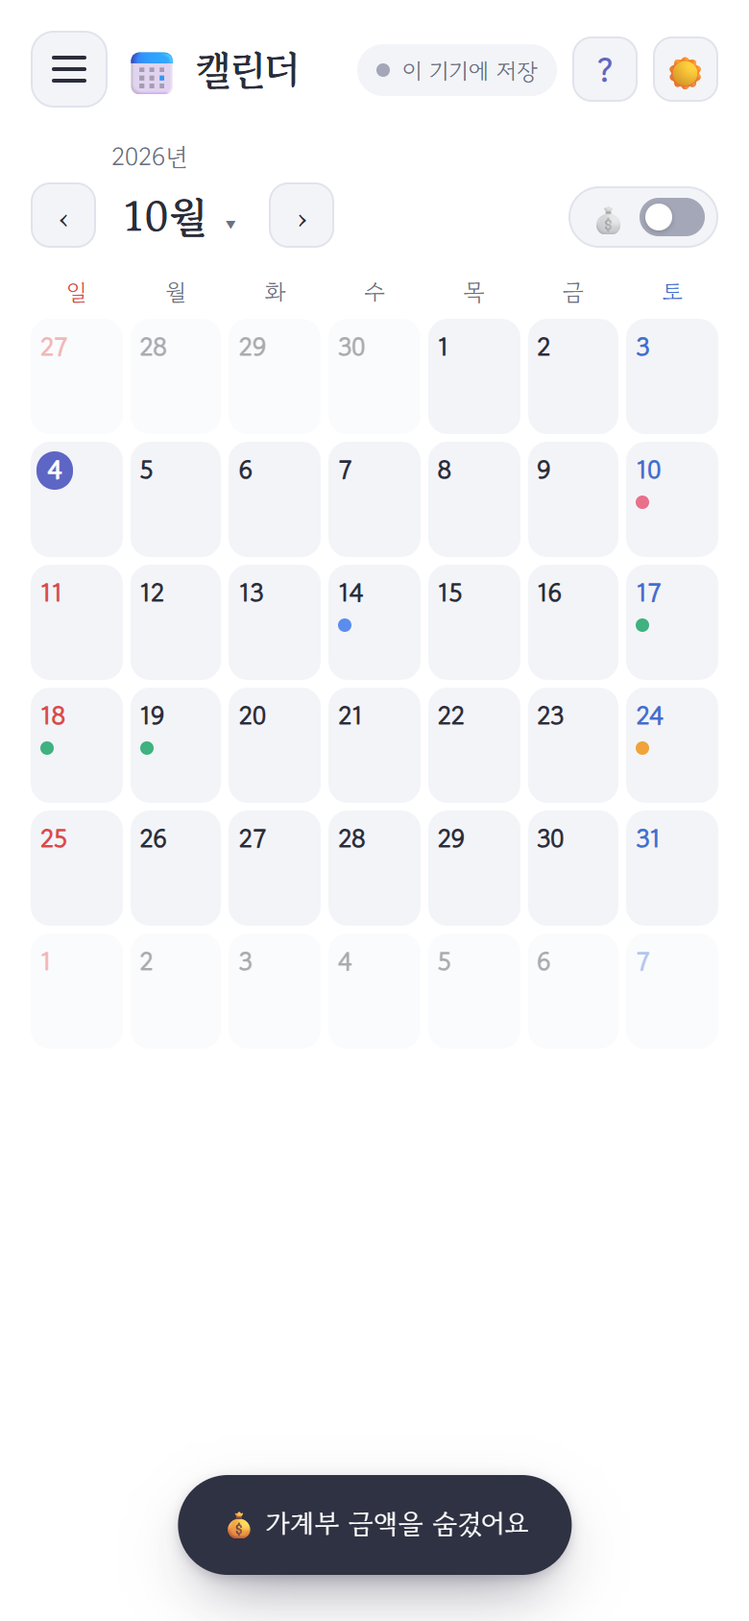
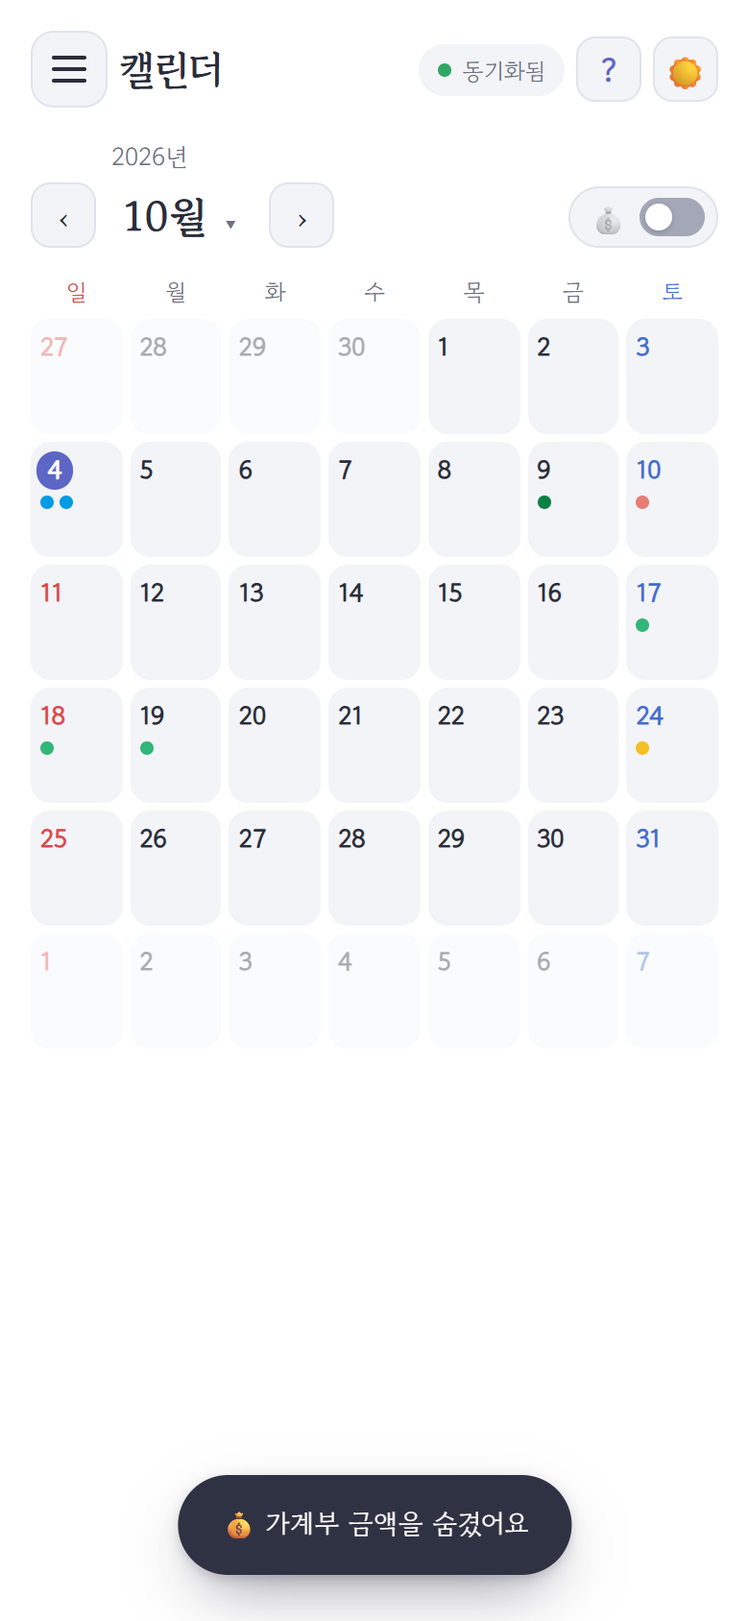
Phase 4 완료: 캘린더 자동 연결·자동 옮기기 + 마무리(4-3)
- 구글 계정이 연결돼 있으면 캘린더도 자동으로 켜짐 (직접 끈 경우만 꺼 둠)
- 담다에만 있던 일정은 저절로 구글 캘린더로 옮김 (고정 아이디로 두 기기 동시에 옮겨도 중복 없음)
- 일정 고치기 창: 계정 이름 중복 표시 수정, "구글 캘린더에서 열기" 버튼 모양
- 가이드 "같이 쓰기" 카드: 일정은 폰 캘린더에도, 할 일·가계부는 담다에만
- README: 캘린더 동기화 기능·구조도·사진(데모 계정)·로드맵·숫자 갱신, PLAN Phase 4 ✅

diff --git a/js/sync/gcal.js b/js/sync/gcal.js
@@ -5,9 +5,12 @@
 // - 쓰기: 담다에서 만들고 고치고 지운 일정은 "보낼 목록(outbox)"에 넣고 순서대로 구글에 보낸다.
 //   새 일정은 아이디를 미리 정해 두어 다시 보내도 하나만 생기고, 고칠 때는 버전(etag)을 확인해
 //   다른 곳에서 먼저 고친 일정은 덮어쓰지 않는다. 지우기는 8초 동안 되돌릴 수 있다.
+// - 담다에만 있던 일정(캘린더 연결 전에 만든 것)은 쓸 수 있게 되면 저절로 구글로 옮긴다.
+//   담다 일정 아이디로 정한 고정 구글 아이디를 써서, 두 기기가 동시에 옮겨도 하나만 생긴다.
 // - 반복 일정, 공휴일, 남이 공유한 캘린더처럼 수정 권한이 없는 일정은 보기만 한다.
 // - 계정: 기본 계정(드라이브 동기화 계정) + 캘린더만 보는 추가 구글 계정 여러 개.
 import * as google from './google.js';
+import { store } from '../store.js';
 import { getMeta, setMeta } from '../db.js';
 import { loadPref, savePref, dateToKey, keyToDate, addDays, pad } from '../utils.js';
 
@@ -38,7 +41,8 @@ let sending = null;
 const pendingDeletes = new Map();  // 일정 id → { ev, timer }
 const listeners = new Set();
 
-export const isEnabled = () => !!loadPref(ON_KEY, false);
+// 켜짐 여부: 사용자가 [캘린더 연결 끊기]로 직접 끈 경우(false)만 꺼 두고, 그 외에는 구글 계정이 연결돼 있으면 켠다
+export const isEnabled = () => { const v = loadPref(ON_KEY, null); return v === null ? !!mainEmail() : !!v; };
 export const getStatus = () => ({ ...status, accounts: { ...status.accounts }, outbox: outbox.length });
 export const subscribe = fn => { listeners.add(fn); return () => listeners.delete(fn); };
 const emit = () => listeners.forEach(fn => { try { fn(); } catch (e) { console.error(e); } });
@@ -321,6 +325,7 @@ export function refresh({ force = true } = {}) {
     else if (main === 'need-scope') setStatus('need-scope', '캘린더 권한이 없어요');
     else setStatus('need-login', '구글 로그인이 끝나면 일정을 불러와요');
     armRelogin();
+    if (anyOk) await autoMigrate();
     sendOutbox();
   })().finally(() => { running = null; });
   return running;
@@ -390,10 +395,9 @@ function optimistic(input, { acct, calId, gid, prev }) {
   };
 }
 
-export async function createEvent(input) {
+export async function createEvent(input, { gid = newGid() } = {}) {
   const t = target();
   if (!t) throw new Error('일정을 저장할 구글 캘린더가 없어요.');
-  const gid = newGid();
   const body = { ...toGoogleBody(input), id: gid };
   putInCache(optimistic(input, { acct: t.acct, calId: t.id, gid }));
   outbox.push({ op: 'insert', acct: t.acct, calId: t.id, gid, body });
@@ -515,10 +519,23 @@ export function nearestColorId(hex) {
   return best;
 }
 
-export async function migrateLocal(events) {
-  for (const e of events) {
-    await createEvent({ title: e.title, start: e.start, end: e.end, time: e.time || '', colorId: nearestColorId(e.color), reminder: 'default' });
-  }
+/** 담다 일정 아이디 → 항상 같은 구글 일정 아이디 (구글 규칙: 0~9, a~v) */
+const migrateId = localId => 'damdal' + [...String(localId)].map(ch => ch.charCodeAt(0).toString(32).padStart(2, '0')).join('');
+
+let migrating = false;
+/** 담다에만 있는 일정을 구글 캘린더로 저절로 옮긴다 (쓸 수 있을 때만) */
+async function autoMigrate() {
+  if (migrating || !canWrite()) return;
+  const local = store.list('events');
+  if (!local.length) return;
+  migrating = true;
+  try {
+    for (const e of local) {
+      await createEvent({ title: e.title, start: e.start, end: e.end || e.start, time: e.time || '', colorId: nearestColorId(e.color), reminder: 'default' }, { gid: migrateId(e.id) });
+    }
+    store.batch(() => local.forEach(e => store.remove('events', e.id)));
+    notice(`담다에만 있던 일정 ${local.length}개를 구글 캘린더로 옮겼어요`);
+  } finally { migrating = false; }
 }
 
 // ---- 연결 · 계정 ----
@@ -529,10 +546,9 @@ export function prepareConnect() {
 
 /** 연결이 끝난 뒤: 캘린더 권한을 받았으면 켠다. 반환값: 켰는지 */
 export function afterConnect() {
-  if (!google.hasScope(google.CAL_READ)) return false;
   savePref(ON_KEY, true);
   refresh();
-  return true;
+  return google.hasScope(google.CAL_READ);
 }
 
 /** 기본 계정에 캘린더 권한(보기+수정)을 받는다. 버튼을 누른 직후에 불러야 한다 */
@@ -614,6 +630,8 @@ function armRelogin() {
 }
 
 // ---- 시작 ----
+// 이미 구글 계정이 연결된 기기: 다음 로그인 때 캘린더 권한도 함께 요청하도록 (직접 끈 경우 제외)
+if (isEnabled()) prepareConnect();
 (async () => {
   try {
     const saved = await getMeta(CACHE_KEY);

diff --git a/js/app.js b/js/app.js
@@ -198,8 +198,8 @@ function gcalCardHtml() {
   if (!gcal.isEnabled()) {
     return `
       <div class="sync-card">
-        <button type="button" class="google-btn" data-act="gcal-connect"><span class="g-mark cal" aria-hidden="true">📅</span> 구글 캘린더 연결</button>
-        <p class="muted small gcal-note">폰 캘린더와 담다의 <b>일정</b>이 서로 추가·수정·삭제돼요. 할 일과 가계부는 담다에만 있어요.</p>
+        <button type="button" class="google-btn" data-act="gcal-connect"><span class="g-mark cal" aria-hidden="true">📅</span> 구글 캘린더 다시 켜기</button>
+        <p class="muted small gcal-note">캘린더 연결을 꺼 두었어요. 켜면 폰 캘린더와 담다의 <b>일정</b>이 서로 추가·수정·삭제돼요. 할 일과 가계부는 담다에만 있어요.</p>
       </div>`;
   }
   const st = gcal.getStatus();
@@ -217,7 +217,7 @@ function gcalCardHtml() {
     <div class="sync-card">
       <div class="sync-status">${line}</div>
       ${mainState === 'need-scope' || mainState === 'read-only' ? `
-        <button type="button" class="google-btn" data-act="gcal-connect"><span class="g-mark cal" aria-hidden="true">📅</span> ${mainState === 'read-only' ? '일정 수정도 허락하기' : '다시 연결 (캘린더 권한 체크)'}</button>` : ''}
+        <button type="button" class="google-btn" data-act="gcal-connect"><span class="g-mark cal" aria-hidden="true">📅</span> ${mainState === 'read-only' ? '일정 수정도 허락하기' : '캘린더 권한 허락하기'}</button>` : ''}
       ${gcal.accounts().map(a => {
         const state = st.accounts?.[a.key];
         const list = cals.filter(c => c.acct === a.key);
@@ -240,6 +240,7 @@ function gcalCardHtml() {
           </div>`;
       }).join('')}
       <button type="button" class="pill-btn wide" data-act="gcal-add-account">＋ 다른 구글 계정 캘린더 추가</button>
+
       ${writable.length ? `
         <label class="gcal-target">새 일정 저장
           <select data-gcal-target>
@@ -252,25 +253,6 @@ function gcalCardHtml() {
       </div>
       <p class="muted small sync-foot">구글 계정에 저장된 일정만 맞춰요 (삼성 캘린더의 "내 휴대전화"·"삼성 계정" 일정은 제외). 반복 일정·공휴일·남이 공유한 캘린더는 보기만 해요. 추가 계정은 구글 클라우드의 테스트 사용자로 등록되어 있어야 해요.</p>
     </div>`;
-}
-
-// 담다에만 있던 일정을 구글 캘린더로 옮길지 한 번 묻는다
-async function askMigrateEvents() {
-  if (!gcal.canWrite() || loadPref('ple-gcal-migrate-asked', false)) return;
-  const local = store.list('events');
-  if (!local.length) return;
-  const t = gcal.target();
-  const v = await choiceDialog({
-    title: '일정을 구글 캘린더로 옮길까요?',
-    message: `담다에만 있던 일정 ${local.length}개를 구글 캘린더(${t.name})로 옮기면 폰 캘린더에서도 보여요. 옮긴 뒤 담다 쪽 사본은 지워져요.`,
-    cancelLabel: '그대로 두기',
-    choices: [{ label: '옮기기', value: 'yes' }],
-  });
-  savePref('ple-gcal-migrate-asked', true);
-  if (v !== 'yes') return;
-  await gcal.migrateLocal(local);
-  store.batch(() => local.forEach(e => store.remove('events', e.id)));
-  toast(`일정 ${local.length}개를 구글 캘린더로 옮겼어요`);
 }
 
 function renderMenu() {
@@ -358,14 +340,12 @@ menu.addEventListener('click', async e => {
       const email = await sync.connectGoogle();
       const cal = gcal.afterConnect();
       toast(`${email || '구글 계정'}과 연결했어요${cal ? ' · 캘린더도 함께' : ''}`);
-      if (cal) setTimeout(askMigrateEvents, 1500);
     }
     if (act === 'google-reconnect') { await sync.reconnectGoogle(); toast('다시 로그인했어요'); }
     if (act === 'sync-now') await sync.syncNow();
     if (act === 'gcal-connect') {
       const r = await gcal.connectCalendar(sync.account()?.email || '');
       toast(r.canWrite ? `구글 캘린더 ${r.shown}개를 연결했어요 · 서로 수정돼요` : `구글 캘린더 ${r.shown}개를 연결했어요 · 보기만`);
-      if (r.canWrite) setTimeout(askMigrateEvents, 800);
     }
     if (act === 'gcal-add-account') {
       const email = await gcal.addAccount();

diff --git a/js/parts/guide.js b/js/parts/guide.js
@@ -206,7 +206,7 @@ const TOPICS = [
     cards: [
       { scene: () => SCENES.menu(ring(10, 136, 156, 28)), say: () => '<b>☰</b> 를 열고 <b>구글 계정으로 연결</b>을 눌러요.' },
       { scene: () => SCENES.account(), say: () => '내 계정을 고르고 <b>계속</b>을 눌러요. 처음 한 번만 하면 돼요.' },
-      { scene: () => SCENES.devices(), say: () => '이제 휴대폰과 컴퓨터에 <b>똑같이</b> 보여요! 위에 "동기화됨"이 보이면 잘 되고 있는 거예요.' },
+      { scene: () => SCENES.devices(), say: () => '이제 휴대폰과 컴퓨터에 <b>똑같이</b> 보여요! <b>일정</b>은 폰 캘린더(구글 캘린더)에도 함께 보이고, <b>할 일과 가계부는 담다에만</b> 있어요.' },
     ],
   },
   {

diff --git a/sw.js b/sw.js
@@ -1,6 +1,6 @@
 // 서비스 워커: 앱 파일을 저장해 두고 인터넷이 없어도 열리게 한다.
 // 같은 출처 파일은 '네트워크 먼저'(항상 최신, 실패 시 저장본), 폰트는 '저장본 먼저'.
-const CACHE = 'damda-shell-v22';
+const CACHE = 'damda-shell-v25';
 const SHELL = [
   './', './index.html', './manifest.webmanifest', './css/style.css',
   './js/app.js', './js/config.js', './js/settings.js', './js/sync/google.js', './js/sync/drive.js', './js/sync/engine.js', './js/sync/gcal.js', './js/store.js', './js/db.js', './js/utils.js', './js/categories.js', './js/ledgerMath.js', './js/sample.js', './js/recurring.js', './js/taskRepeat.js',

diff --git a/js/parts/eventEditor.js b/js/parts/eventEditor.js
@@ -23,7 +23,7 @@ export function openEventEditor(ev) {
       <form class="event-form">
         ${eventFormHtml({
           ev, dayKey: ev.start, google, calColor: cal?.color,
-          note: google ? `구글 캘린더 · ${escapeHtml(ev.calName)}${cal?.accountEmail ? ` (${escapeHtml(cal.accountEmail)})` : ''}에 저장돼요` : '담다에만 저장된 일정이에요',
+          note: google ? `구글 캘린더 · ${escapeHtml(ev.calName)}${cal?.accountEmail && cal.accountEmail !== ev.calName ? ` (${escapeHtml(cal.accountEmail)})` : ''}에 저장돼요` : '담다에만 저장된 일정이에요',
           submitLabel: '저장',
         })}
       </form>

diff --git a/css/style.css b/css/style.css
@@ -1212,3 +1212,4 @@ a.g-open:hover { background: var(--surface-hover); }
 .event-form .form-line select { flex: 1; min-height: 38px; border: 1px solid var(--line); border-radius: 10px; background: var(--card); color: var(--text); padding: 0 8px; font: inherit; }
 .event-note { margin: 0; line-height: 1.5; }
 .color-row { flex-wrap: wrap; }
+a.pill-btn { text-decoration: none; color: var(--text); }

diff --git a/README.md b/README.md
@@ -3,7 +3,7 @@
 # 💰📅✅ 담다 · Damda
 
 **하루를 담는 기록장**
-캘린더 · 할 일 · 가계부를 한곳에. 서버 없이, 내 기기와 내 구글 계정에만.
+캘린더 · 할 일 · 가계부를 한곳에. 일정은 폰 캘린더와 자동으로 주고받고,<br/>서버 없이 내 기기와 내 구글 계정에만.
 
 ![HTML](https://img.shields.io/badge/HTML%2FCSS%2FJS-순수_ES_Modules-6b74c9)
 ![PWA](https://img.shields.io/badge/PWA-설치·오프라인-3fb27f)
@@ -50,12 +50,24 @@
 
 ### 📅 캘린더 + 하루 패널
 - 한 달을 훑어보고, 날짜를 누르면 **하루 패널**이 스르륵 열립니다 (PC는 옆, 폰은 아래에서).
-- 패널에서 할 일 체크, 그날 지출 요약, 일정 추가를 한 번에.
+- 패널에서 할 일 체크, 그날 지출 요약, 일정 추가·고치기를 한 번에.
 - **💰 금액 보기 스위치**: 옆에 사람이 있을 때 한 번 누르면 달력과 패널의 금액이 모두 숨겨집니다.
 
 | 금액 보기 켜짐 | 금액 보기 꺼짐 |
 |:---:|:---:|
 | <img src="docs/images/07-money-on.png" width="260"> | <img src="docs/images/08-money-off.png" width="260"> |
+
+### 🔄 구글 캘린더 자동 양방향 동기화
+- **구글 계정을 연결하면 캘린더도 함께.** 갤럭시(삼성)·구글·노션 캘린더의 일정이 담다 달력에 보이고, 담다에서 **추가·수정·삭제**한 일정이 폰 캘린더에도 반영됩니다.
+- **일정만 주고받습니다.** 할 일과 가계부는 담다에만 있어서 폰 캘린더가 지저분해지지 않고, 돈 정보가 공유 캘린더로 새지 않습니다.
+- 일정에 **알림**(10분 전 ~ 하루 전)을 붙이면 구글 캘린더가 PC와 폰에 알려 줍니다.
+- **여러 구글 계정**(개인 · 회사 · 학교)의 캘린더를 함께 보고, 새 일정을 저장할 캘린더를 고를 수 있습니다.
+- 연결 전에 담다에만 적어 둔 일정은 **저절로** 구글 캘린더로 옮겨집니다.
+- 안전장치: 인터넷이 끊겨도 먼저 화면에 보이고 나중에 보냄 · 다시 보내도 **하나만** 생김 · 폰에서 먼저 고친 일정은 **덮어쓰지 않음** · 지우기는 8초 되돌리기 · 반복 일정·공휴일·공유 캘린더는 보기만.
+
+| 메뉴: 계정별 캘린더 | 일정 고치기 |
+|:---:|:---:|
+| <img src="docs/images/06-menu.png" width="260"> | <img src="docs/images/10-event-edit.png" width="260"> |
 
 ### ✅ 할 일
 - 카테고리별 진행률, 필터, 밀린 할 일 한 번에 가져오기.
@@ -76,13 +88,13 @@
 - 지워도 8초 안에 ↺ 되돌리기.
 
 ### ☁ 동기화 · ⚙ 설정 · ❓ 가이드
-- **구글 계정으로 연결** → 폰과 PC에 똑같이. 방식은 4가지(이 기기에만 / 자동 / 절약 / 직접).
+- **구글 계정으로 연결** → 폰과 PC에 똑같이 (할 일·가계부는 드라이브 숨김 폴더, 일정은 구글 캘린더). 방식은 4가지(이 기기에만 / 자동 / 절약 / 직접).
 - 설정: 진동(폰에서만)·알림 켜고 끄기. PC에는 소리·진동이 없습니다.
 - **그림 사용 가이드**: 화면 그림 위에서 반짝이는 곳과 👆 손가락, 한 줄 설명. 초등학생도 따라 할 수 있게.
 
-| 사용 가이드 | 메뉴 (동기화·설정) | 어두운 화면 |
-|:---:|:---:|:---:|
-| <img src="docs/images/05-guide.png" width="250"> | <img src="docs/images/06-menu.png" width="250"> | <img src="docs/images/09-dark.png" width="330"> |
+| 사용 가이드 | 어두운 화면 |
+|:---:|:---:|
+| <img src="docs/images/05-guide.png" width="250"> | <img src="docs/images/09-dark.png" width="420"> |
 
 ---
 
@@ -106,7 +118,7 @@ python -m http.server 5500
 ### 처음 쓰는 순서
 1. 왼쪽 위 **☰** 에서 캘린더 · 할 일 · 가계부를 고릅니다.
 2. 할 일과 지출을 적습니다. 기록은 먼저 **이 기기**에 저장됩니다.
-3. 여러 기기에서 쓰려면 ☰ → **구글 계정으로 연결** (계정 고르기 → 처음 한 번 허용).
+3. 여러 기기에서 쓰려면 ☰ → **구글 계정으로 연결** (계정 고르기 → 처음 한 번 허용). 캘린더도 함께 연결되어 폰 캘린더 일정이 보입니다.
 4. 모르는 것은 오른쪽 위 **?** → 그림 가이드.
 
 > 🔐 구글 연결은 현재 **테스트 모드**라 등록된 테스트 사용자만 로그인할 수 있습니다. 직접 운영하려면 자신의 OAuth 클라이언트 ID를 `js/config.js`에 넣으세요. 절차는 [docs/data-sync.md](docs/data-sync.md) 8장.
@@ -120,8 +132,9 @@ python -m http.server 5500
 |---|---|
 | **단순하고 가볍게** | 프레임워크·빌드 도구·npm 의존성 0개. 순수 HTML/CSS/JS(ES Modules). 차트도 직접 그린 SVG |
 | **기기 먼저 (local-first)** | 모든 기록은 먼저 기기(IndexedDB, 바뀐 항목만 저장)에 → 인터넷이 없어도 동작. IndexedDB를 못 쓰면 localStorage로 대체, 저장이 실패해도 화면은 정상 |
-| **서버 없음** | 동기화는 사용자의 구글 드라이브 **앱 전용 숨김 폴더**(`drive.appdata`)만 사용. 운영자가 보관하는 데이터가 없음 |
-| **최소 권한** | 구글 권한은 앱 전용 폴더 + 계정 이메일뿐. 다른 드라이브 파일은 볼 수 없음 |
+| **서버 없음** | 할 일·가계부는 사용자의 구글 드라이브 **앱 전용 숨김 폴더**(`drive.appdata`), 일정은 사용자의 **구글 캘린더**. 운영자가 보관하는 데이터가 없음 |
+| **최소 권한** | 드라이브는 앱 전용 폴더만(다른 파일은 볼 수 없음), 캘린더는 일정 보기·고치기만. 추가 계정은 캘린더 권한만 |
+| **나눠서 저장** | 일정만 구글 캘린더와 주고받고, 할 일·가계부는 담다에만. 공유 캘린더로 돈 정보가 새지 않게 |
 | **금융 연동 금지** | 은행·카드·결제 연동 코드는 어떤 형태로도 넣지 않음. 금액·날짜·메모만 |
 | **지워도 되돌릴 수 있게** | 실제 삭제 대신 `deleted: true` + 모든 항목에 `updatedAt` → 되돌리기와 기기 간 병합이 안전 |
 | **모두를 위한 화면** | 모든 창은 ✕·바깥 클릭·Esc·뒤로가기로 닫힘, 밝은/어두운 화면, 폰 크기 대응, 움직임 줄이기 설정 존중 |
@@ -138,10 +151,17 @@ flowchart LR
   subgraph B["📱 폰 (브라우저 → 갤럭시 앱 예정)"]
     UB[화면] --> SB[(기기 저장소)]
   end
-  SA <-->|"저장 후 1초 올림 · 5초마다 확인"| D[("구글 드라이브<br/>앱 전용 숨김 폴더<br/>damda-data.json")]
+  SA <-->|"할 일·가계부: 저장 후 1초 올림 · 5초마다 확인"| D[("구글 드라이브<br/>앱 전용 숨김 폴더<br/>damda-data.json")]
   SB <-->|"버전 확인 → 항목별 병합"| D
-  D -.->|"Phase 4"| C[구글 캘린더]
+  SA <-->|"일정: 추가·수정·삭제 · 1분마다 받기"| C[("구글 캘린더")]
+  SB <--> C
+  C <--> P["📱 갤럭시 · 노션 캘린더"]
 ```
+
+**캘린더 동기화** (`js/sync/gcal.js`)
+- 보고 있는 달 ± 1달을 받아 기기에 보관합니다. 인터넷이 없어도 보입니다.
+- 담다에서 바꾼 일정은 **보낼 목록(outbox)**에 넣고 순서대로 보냅니다. 새 일정은 아이디를 미리 정해서 다시 보내도 하나만 생기고, 고칠 때는 **버전(etag)을 확인**해서 다른 곳에서 먼저 고친 일정을 덮어쓰지 않습니다.
+- 가짜 구글 캘린더 서버로 24가지 상황을 검증했습니다 (추가·알림, 오프라인 후 1개만 생성, 충돌, 지우기·되돌리기, 보기만, 두 번째 계정, 자동 옮기기·중복 없음 등).
 
 **동기화 엔진** (`js/sync/engine.js`)
 - 드라이브 파일의 **버전이 바뀌었으면** 받아서 항목마다 `updatedAt`이 더 최신인 쪽을 남깁니다.
@@ -163,9 +183,9 @@ flowchart LR
 
 | 숫자로 보는 담다 | |
 |---|---|
-| 요구사항 | **70개** (주제별 번호 K·T·L·C·U·S…, 상태·요청일·변경 이력 관리) |
-| 결정 기록 | **40건** (날짜순) |
-| 코드 | JS 모듈 28개 · 약 4,200줄 / CSS·HTML 약 1,300줄 · 외부 라이브러리 0개 |
+| 요구사항 | **71개** (주제별 번호 K·T·L·C·U·S…, 상태·요청일·변경 이력 관리) |
+| 결정 기록 | **48건** (날짜순) |
+| 코드 | JS 모듈 32개 · 약 5,400줄 / CSS·HTML 약 1,300줄 · 외부 라이브러리 0개 |
 
 ### 대표적인 "물어보고 바꾼" 순간들
 
@@ -182,6 +202,9 @@ flowchart LR
 | 그림 가이드 1차 | *직접 살펴보고 판단해 줘* | AI가 실제 화면과 비교해 12곳을 찾아 수정 |
 | 가계부 🪙, 달력에 늘 보이는 금액 | *돈 문제니까 민감할 수 있잖아* | 💰 아이콘 + **금액 보기 스위치** (? 버튼과 떨어진 곳에) |
 | 은행·카드 연동 아이디어 | *보안상 위험하니 선호하지 않아* | **금융 연동 금지**를 원칙으로 고정 |
+| 구글 캘린더 읽기만 연결 | *연동하면 자동으로 서로 다 수정 가능하게* | **자동 양방향 동기화** (일정만, 할 일·가계부는 담다에만) |
+| 캘린더 연결 버튼·옮기기 질문 | *노션이랑 구글 캘린더처럼 자동으로* | 계정 연결 = 캘린더 연결, 예전 일정도 **저절로** 옮기기 |
+| 화면 제목의 이모지 | *모바일이든 PC든 빼줘* | 제목·메뉴를 글자만으로 깔끔하게 |
 
 ---
 
@@ -192,7 +215,7 @@ flowchart LR
 | Phase 1 | 화면과 기능: 캘린더 · 할 일 · 가계부 · 카테고리 · 반복 · PWA | ✅ 완료 |
 | Phase 2 | 레포 · 웹 주소(GitHub Pages) | ✅ [crowtit517.github.io/damdanote](https://crowtit517.github.io/damdanote/) |
 | Phase 3 | 구글 드라이브 동기화 + 기기 저장소 IndexedDB | ✅ 실제 구글 연결·동기화 성공, IndexedDB 전환 |
-| Phase 4 | 구글 캘린더 연동(삼성 캘린더 일정과 주고받기) + PC 알림 | ⬜ |
+| Phase 4 | 구글 캘린더 **자동 양방향 동기화** + 여러 구글 계정 + 알림 | ✅ 완료 |
 | Phase 5 | 갤럭시 앱(APK 직접 설치, 무료) + 폰 알림 | ⬜ |
 | Phase 6 | 다듬기 | ⬜ |
 
@@ -213,9 +236,9 @@ damdanote/
 │  ├─ store.js           기기 저장소 (병합·되돌리기·구독)
 │  ├─ settings.js        기기별 설정 (진동·알림·금액 보기)
 │  ├─ categories.js · recurring.js · taskRepeat.js · ledgerMath.js
-│  ├─ sync/              구글 로그인 · 드라이브 · 동기화 엔진
+│  ├─ sync/              구글 로그인 · 드라이브 · 동기화 엔진 · 구글 캘린더
 │  ├─ views/             캘린더 · 할 일 · 가계부 · 하루 패널
-│  ├─ parts/             목록, 차트(SVG), 카테고리, 반복, 그림 가이드
+│  ├─ parts/             목록, 차트(SVG), 카테고리, 반복, 일정 입력·고치기, 그림 가이드
 │  └─ ui/                창 관리(overlay) · 알림(toast) · 확인 창
 ├─ icons/
 └─ docs/                 설계 문서와 스크린샷
@@ -236,7 +259,7 @@ damdanote/
 - **기획 · 결정 · 테스트**: [@Crowtit517](https://github.com/Crowtit517)
 - **설계 설명 · 코드 작성**: AI(Claude)와 협업
 
-무엇을, 왜, 어떻게 만들지는 사람이 정했고, 코드는 AI가 작성했습니다. AI는 수정 전에 항상 먼저 물어보고, 결정은 문서로 남기는 규칙([CLAUDE.md](CLAUDE.md))을 따랐습니다. 요구사항 70개와 결정 기록 40건이 그 과정입니다.
+무엇을, 왜, 어떻게 만들지는 사람이 정했고, 코드는 AI가 작성했습니다. AI는 수정 전에 항상 먼저 물어보고, 결정은 문서로 남기는 규칙([CLAUDE.md](CLAUDE.md))을 따랐습니다. 요구사항 71개와 결정 기록 48건이 그 과정입니다.
 
 <div align="center">
 <sub>담다 · 하루를 담다</sub>

diff --git a/PLAN.md b/PLAN.md
@@ -67,7 +67,7 @@
 | **Phase 1** | 로컬 MVP를 HTML로 구현 + PWA 설치 확인 (PC) | 인터넷 없이 3절 기능 동작, PC 크롬에서 "앱 설치" 가능 | ✅ 1차 구현 완료 (사용자 확인 대기) |
 | **Phase 2** | GitHub 레포 만들기 → GitHub Pages에 올려 PC·갤럭시에서 써보기 + **구글 로그인 유지 시간 검증** | 다음 날 열어도 로그인이 거의 유지됨 | ✅ 사이트 공개 (10-04) · 로그인은 웹 1시간 갱신 방식으로 정리 |
 | **Phase 3** | 기기 저장소를 IndexedDB로 + **드라이브 동기화** (할 일·가계부·카테고리·반복 설정): 1초 안에 올림, 보일 때 5초마다 확인 | PC에서 입력 → 폰 화면에 5초 안에 보임 | ✅ 실제 구글 동기화(10-04) · 로그인 유지 개선 · IndexedDB 전환(10-04) |
-| **Phase 4** | 구글 캘린더 **자동 양방향 동기화** (일정만. 할 일·가계부는 담다에만) + 여러 구글 계정 + 알림(구글 캘린더) | 삼성 캘린더 일정이 담다에, 담다 일정이 삼성 캘린더에 | 🔄 4-1 읽기 ✅ · 4-2 양방향·여러 계정 ✅(가짜 서버 검증) · 실제 확인·4-3 마무리 남음 |
+| **Phase 4** | 구글 캘린더 **자동 양방향 동기화** (일정만. 할 일·가계부는 담다에만) + 여러 구글 계정 + 알림(구글 캘린더) | 삼성 캘린더 일정이 담다에, 담다 일정이 삼성 캘린더에 | ✅ 완료 (10-05): 읽기·양방향·여러 계정·자동 연결·자동 옮기기. 실제 연결·옮기기 확인, 가짜 서버 검증 24개 |
 | **Phase 5** | **갤럭시 앱으로 감싸기** (APK 직접 설치, 무료) + 폰 알람으로 직접 알림 (일정·할 일) | 앱을 꺼도 "아침 9시 약 드세요"가 울림 | ⬜ |
 | **Phase 6** | 다듬기: backlog.md에서 골라서. 공개한다면 플레이스토어 등록 검토 | | ⬜ |
 
@@ -86,7 +86,7 @@
 | K-03 | [오늘] 대신 [?월 ▾] 선택기, 연도 따로 표기, 화살표는 월 단위 | ✅ | 10-02 | |
 | K-04 | 날짜 패널은 가볍게: 할 일은 체크리스트만, 가계부는 요약만, 누르면 해당 탭의 그 날짜로 | ✅ | 10-03 | 패널에서 입력까지 → 보기·체크 위주로 |
 | K-05 | 일정 (기간·시간·색) 추가·삭제 | ✅ | 10-02 | |
-| K-06 | 기본 캘린더(삼성·구글)와 일정 양방향 연동 | ✅ (실제 확인 중) | 10-03 | 4-1(10-05) 읽기 → 4-2 자동 양방향: 담다에서 추가·수정·삭제 → 구글, 구글 → 담다. 일정만, 할 일·가계부는 담다에만 |
+| K-06 | 기본 캘린더(삼성·구글)와 일정 양방향 연동 | ✅ | 10-03 | 4-1(10-05) 읽기 → 4-2 자동 양방향: 담다에서 추가·수정·삭제 → 구글, 구글 → 담다. 일정만, 할 일·가계부는 담다에만 |
 | K-09 | 여러 구글 계정의 캘린더 함께 보기·저장 위치 고르기 | ✅ | 10-05 | 네이버·iCloud·삼성 계정 캘린더는 서버 없이 불가, Outlook은 나중에 검토 |
 | K-07 | 일정 알림: 1일 전 등, 밀면 지워지는 일반 알림 | ⏳ Phase 4~5 | 10-03 | 위젯·서버 푸시 제외 → 구글 캘린더 알림 → **갤럭시는 앱이 폰 알람에 직접 예약**, PC는 구글 캘린더 |
 | K-08 | 여러 날 일정 막대, 미니 달력·시간 스크롤 선택기 | ⏸ | 10-02 | 1차는 점 표시·기본 입력창 |
@@ -231,3 +231,6 @@
 | 10-05 | 화면 이름(캘린더·할 일·가계부)의 이모지 제거: 위쪽 제목과 ☰ 메뉴 화면 목록, 가이드 그림도 맞춤 |
 | 10-05 | **Phase 4 계획 변경: 자동 양방향 동기화**. 구글 계정 연결 한 번에 드라이브+캘린더 권한. 일정의 원본은 구글 캘린더(할 일·가계부는 담다에만). 담다에서 추가·수정·삭제 → 보낼 목록(outbox)으로 구글에 반영(미리 정한 아이디로 중복 없음, etag로 덮어쓰기 방지, 지우기 8초 되돌리기). 반복 일정·공휴일·공유 캘린더는 보기만. 알림(10분~하루 전) 설정. 담다에만 있던 일정은 연결 때 옮길지 한 번 물어봄 |
 | 10-05 | **여러 구글 계정 캘린더** 추가: ☰ 메뉴에서 계정별 캘린더 켜고 끄기, 새 일정 저장 위치 선택. 추가 계정은 캘린더 권한만. 네이버·iCloud·삼성 계정 캘린더는 브라우저용 공개 API가 없어 서버 없이는 불가 |
+| 10-05 | 캘린더 연결을 따로 묻지 않음: **구글 계정이 연결돼 있으면 캘린더도 자동으로 켜짐**(직접 끈 경우만 꺼 둠, 이미 연결된 기기는 다음 로그인 때 권한도 함께 요청). 연결 때 자동으로 묻던 "옮길까요?"는 ☰ 메뉴의 **[담다에만 있는 일정 N개 → 구글 캘린더로 옮기기]** 버튼으로 (예전 일정은 옮겨야 폰 캘린더에 보임) |
+| 10-05 | **옮기기도 자동**: 캘린더에 쓸 수 있으면 담다에만 있던 일정을 저절로 구글 캘린더로 옮김 (버튼·질문 없음, 노션 캘린더처럼 일정은 항상 구글에). 담다 일정 아이디로 정한 고정 구글 아이디라 두 기기가 동시에 옮겨도 하나만 생김 |
+| 10-05 | **Phase 4 마무리(4-3)**: 새 가이드 카드는 만들지 않음(자동이라 가르칠 동작이 없음). "같이 쓰기" 카드에 "일정은 폰 캘린더에도 보이고 할 일·가계부는 담다에만" 한 문장. README 기능·사진(가짜 캘린더 데모 계정)·구조도·로드맵 갱신 |

diff --git a/docs/ui.md b/docs/ui.md
@@ -163,7 +163,7 @@
 - 오른쪽 위 표시(누르면 메뉴): "이 기기에 저장" / "구글 연결 대기" / "맞추는 중…" / "동기화됨 · 3분 전" / "다시 로그인 필요" / "동기화 오류"
 - **? 사용 가이드** (테마 버튼 왼쪽, `js/parts/guide.js`): 주제 7개 × 그림 카드(그림 + 반짝이는 곳 + 짧은 문장, 초등학생도 알아볼 쉬운 말). 다음 › / 밀어서 넘기기. 지금 화면의 주제부터 열린다. 기능이 바뀌면 가이드 내용도 같이 고친다
 - **💰 금액 보기 스위치** (캘린더 화면, 달 이동 줄 오른쪽): 끄면 캘린더 칸의 지출 금액과 날짜 패널의 돈 정보(이날 지출·가계부 요약)를 숨긴다. 가계부 화면은 그대로. 기기마다 따로(`ple-set-money`), 처음은 켜짐. ? 버튼과 떨어뜨려 잘못 누르지 않게
-- **☰ 메뉴 → 구글 캘린더** (10-05): 계정별(기본·추가) 캘린더 목록과 켜고 끄기("보기만" 표시), [＋ 다른 구글 계정 캘린더 추가], 새 일정 저장 위치, [지금 맞추기], [캘린더 연결 끊기]. 수정 권한이 없으면 [일정 수정도 허락하기]
+- **☰ 메뉴 → 구글 캘린더** (10-05): 계정별(기본·추가) 캘린더 목록과 켜고 끄기("보기만" 표시), [＋ 다른 구글 계정 캘린더 추가], 새 일정 저장 위치, [지금 맞추기], [캘린더 연결 끊기]. 구글 계정을 연결하면 캘린더도 자동으로 켜지고, 담다에만 있던 일정은 저절로 구글로 옮겨진다(직접 끄면 [구글 캘린더 다시 켜기]). 수정 권한이 없으면 [일정 수정도 허락하기]
 - **날짜 패널 일정** (10-05): 구글 일정은 G 표시(누르면 구글 캘린더에서 열기). 고칠 수 있는 일정은 눌러서 고치기 창(제목·날짜·시간·끝 시간·알림·색, 지우기), ✕는 8초 되돌리기. 반복 일정·공휴일은 보기만. "일정 추가"는 구글에 연결돼 있으면 구글 캘린더에 저장
 
 ## 8. 카테고리 (홈 화면 방식)
